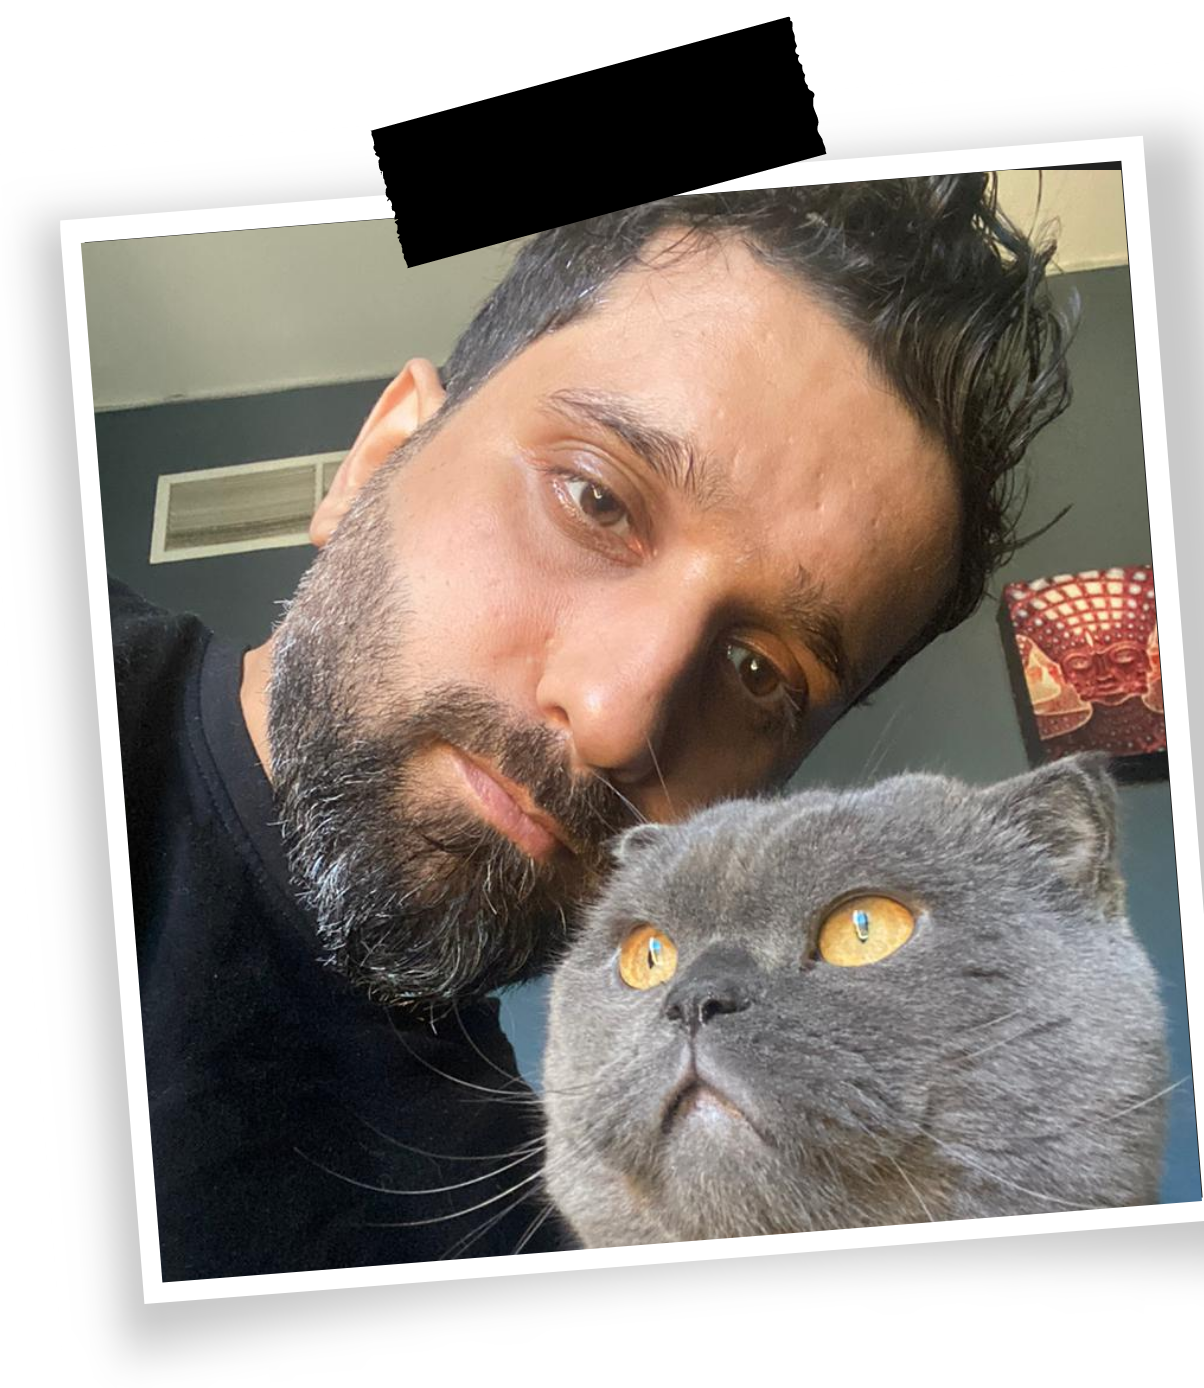
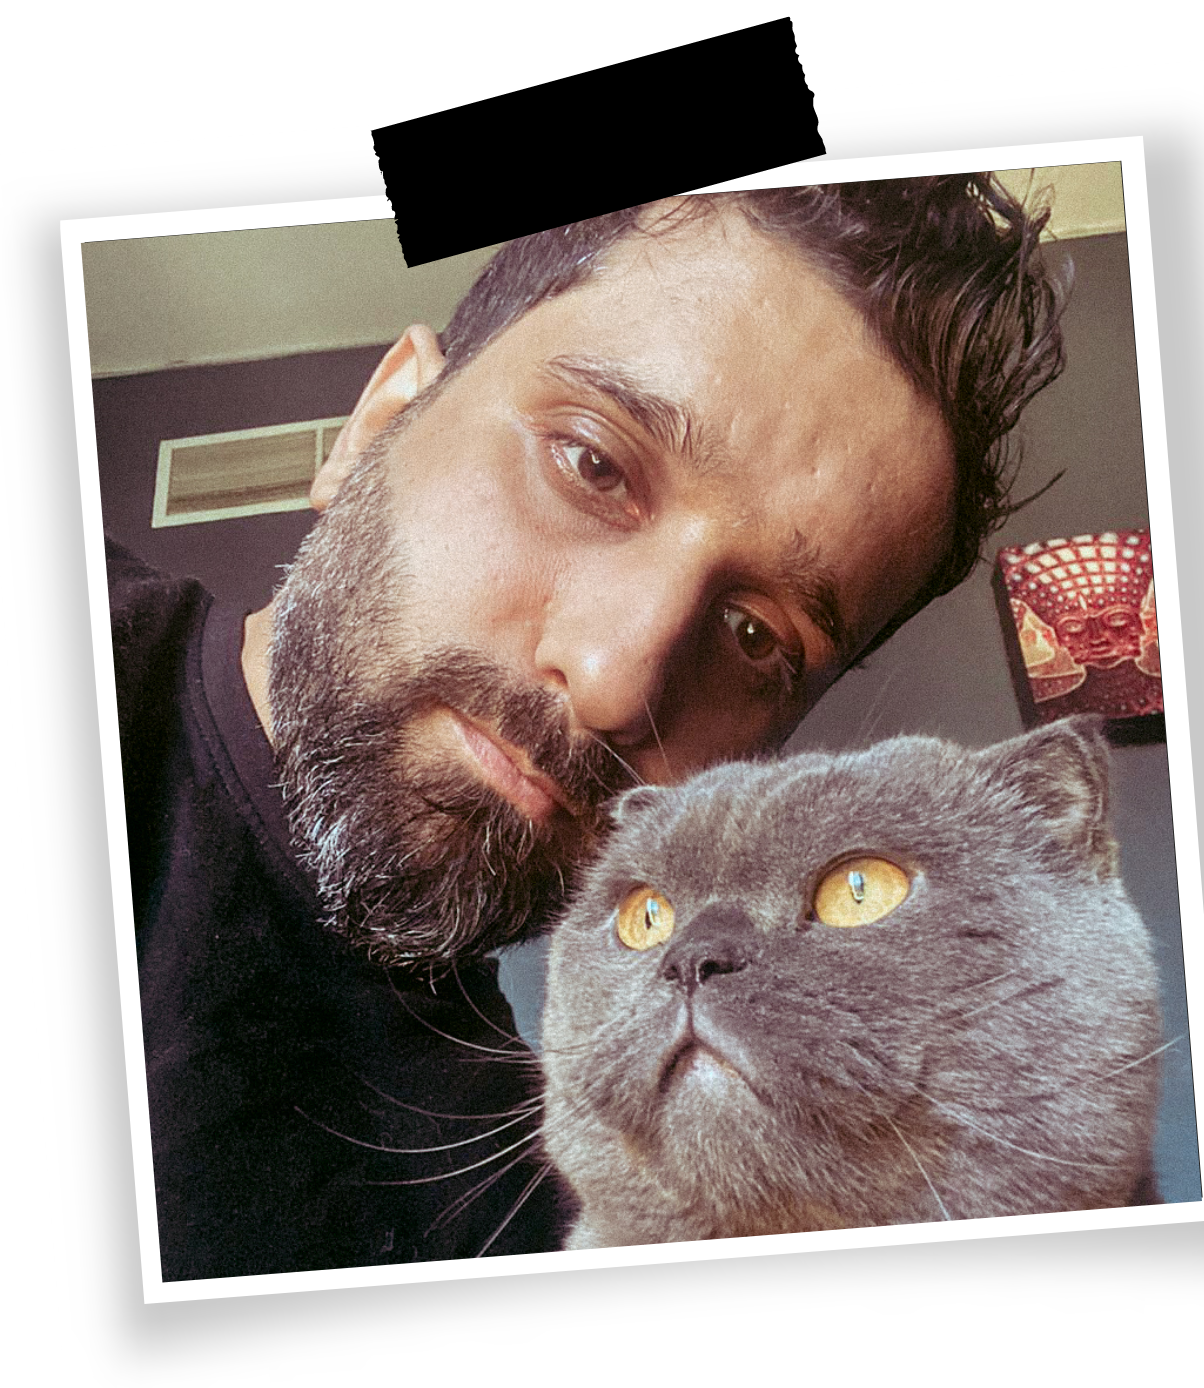
Web versiong of the website is complete

diff --git a/style.css b/style.css
@@ -26,7 +26,11 @@ h3 font size = 20px : 1.25rem
 body > div{
   width: 100vw;
   height: 100vh;
+  background-color: hsla(0, 0%, 100%, 0.81);
   background-image: url("./images/white-paper-texture.png");
+  overflow-x: hidden;
+  border-top: 2px solid black;
+  border-bottom: 8px solid black;
 }
 
 h1{
@@ -41,8 +45,14 @@ h2{
   mix-blend-mode: color-burn;
 }
 
+h3{
+  font-weight: normal;
+  padding: 0.1rem;
+  mix-blend-mode: color-burn;
+}
+
 p{
-  font-size: 18px;
+  font-size: 16px;
   mix-blend-mode: color-burn;
 }
 
@@ -52,7 +62,7 @@ p{
   width: 8%;
   position: absolute;
   top: 1vh;
-  left: 20px
+  left: 10px
 }
 
 #home-pg{
@@ -64,7 +74,7 @@ p{
 
 .coffee-stain{
   position: relative;
-  right: 5%;
+  right: 0%;
 }
 
 .coffee-stain img{
@@ -78,6 +88,7 @@ p{
   justify-content: center;
   align-items: center;
   height: 100%;
+  mix-blend-mode: color-burn;
 }
 .intro-text div{
   display: flex;
@@ -102,7 +113,7 @@ p{
   flex-direction: column;
   justify-content: flex-end;
   align-items: end;
-  height: 100vh;
+  height: 100%;
   
 }
 
@@ -112,6 +123,7 @@ p{
 
 .polaroid img{
   width: 55vh;
+  mix-blend-mode:multiply;
 }
 
 /* Page 1 */
@@ -126,20 +138,22 @@ p{
 #story-pg1{
   padding: 2rem;
   padding-right: 0;
+  padding-bottom: 0;
+}
+
+#story-pg1{
+  height: 100%;
 }
 
 .pg1-content{
   display: flex;
   flex-direction: row;
-  justify-content: space-between;
-  align-items: flex-end;
-  width: 100%;
-  height: 100%;
+  height: auto;
+  overflow: hidden;
 }
 
 .script-pg1{
-  height: 100%;
-  width: 50%;
+  width: 60vw;
   justify-self: center;
 }
 
@@ -150,6 +164,125 @@ p{
 }
 
 .placeholder{
-  width: 90%;
+  width: 80%;
   mix-blend-mode: color-burn;
 }
+
+.man-and-the-mountain{
+  width: 40vw;
+  height: 100%;
+  position: relative;
+  align-self: flex-end;
+  top: 2rem;
+}
+
+.man-and-the-mountain video{
+  width: 100%;
+}
+
+.pg2-content{
+  display: flex;
+  justify-content: flex-start;
+  flex-direction: column;
+  align-items: flex-start;
+  width: 100%;
+  height: 100%;
+}
+
+.pg2-content .script{
+  padding-left: 2rem;
+  padding-top: 2rem ;
+  width: 50vw;
+  height: 20vh;
+  z-index: 2;
+  mix-blend-mode: color-burn;
+}
+
+.man-cooking-his-ideas{
+  height: 100vh;
+  width: 100vw;
+  position: absolute;
+  z-index: 0;
+  mix-blend-mode: color-burn;
+}
+
+.man-cooking-his-ideas img{
+  height: 100vh;
+  width: 100vw;
+}
+
+#contact-pg{
+  display: flex;
+  flex-direction: column;
+  align-items: center;
+  justify-content: flex-start;
+  padding-top: 1rem;
+  z-index: 3;
+  padding-left: 2rem;
+  padding-right: 2rem;
+}
+
+.contact-section{
+  display: flex;
+  justify-content: space-between;
+  align-items: center;
+  height: 90vh;
+  width: auto;
+}
+
+.terminator-cat{
+  align-self: center;
+  justify-self: center;
+  padding-bottom: 8%;
+}
+
+.terminator-cat p{
+  font-size: 20px;
+  padding-block: 1rem;
+}
+
+.terminator-cat img{
+  width: 70%;
+  mix-blend-mode: color-burn;
+}
+
+.contact-details{
+  text-align: center;
+  width: 85vw;
+  display: flex;
+  flex-direction: column;
+  align-items: center;
+  justify-content: center;
+  row-gap: 3rem;
+  height: 80vh;
+}
+
+.contact-me{
+  justify-self: start;
+}
+
+.contact-me h3{
+  font-size: 20px;
+  padding-block: 0.3rem;
+}
+
+.contact-me p{
+  font-size: 20px;
+  padding-block: 0.3rem;
+}
+
+.icon{
+  width: auto;
+  mix-blend-mode: color-burn;
+}
+
+.icons{
+  display: flex;
+  flex-direction: column;
+  align-items: flex-end;
+  row-gap: 1rem;
+  width: auto;
+  mix-blend-mode: color-burn;
+}
+
+

diff --git a/index.html b/index.html
@@ -34,7 +34,7 @@
     <!-- <img  class="staple-pin1" src="./images/Mask Group 6.png" alt="A stapler pin to staple the paper" srcset=""> -->
     <div class="pg1-content">
       <div class="script-pg1">
-        <div class="script">
+        <div class="script-1">
           <h3>EXT. MOUNTAIN TOP - DAY</h3>
           <p>A man (FARHAD) in his early 30s wearing high altitude hiking gear is stands atop of a mountain taking a long
             breath.</p>
@@ -57,7 +57,7 @@
         </div>
       </div>
       <div class="man-and-the-mountain">
-        <video width="600" height="100%" autoplay loop muted playsinline>
+        <video width="auto" height="auto" autoplay loop muted playsinline>
           <source 
     src="./images/the-man-webm.webm" 
     type="video/webm">
@@ -67,33 +67,44 @@
        
   </div>
   <div id="story-pg2">
-    <div class="staple-pin"></div>
-    <div class="script">
-      <h3>Ext. Mountain Top - Day</h3>
-      <p>
-        A man (FARHAD) in his early 30s wearing high altitude hiking gear is stands atop of a mountain taking a long
-        breath.<br> The view is like something out of a photograph, serene and
-        peaceful. His stance is of one mesmerised and in awe of what he sees. The mountains; ancient beyond time, disappear into the clouds around him.
-      </p>
-    </div>
-    <div class="man-cooking-his-ideas">
-      <video></video>
+    <!-- <div class="staple-pin"></div> -->
+    <div class="pg2-content">
+      <div class="script">
+        <h3>CUT TO:</h3>
+        <h3>INT. KITCHEN - EVENING</h3>
+        <p>
+          Farhad cooks in the kitchen, a neatly cut pile of vegetables rests on the counter. The smoke rises as he stirs the pan attentively.
+        </p>
+      </div>
+      <div class="man-cooking-his-ideas">
+        <!-- <video>
+        </video> -->
+        <img src="./images/man-cooking-his-idea.png" alt="man-cooking-his-ideas" srcset="">
+      </div>
     </div>
   </div>
   <div id="contact-pg">
-    <div class="staple-pin"></div>
     <h2>The End</h2>
-    <div>
-      <div class="icon"></div>
-      <div class="terminator-cat">
-        <video src=""></video>
-        <p>“Hasta la’vista, baby!”</p>
-        <div class="contact-details">
-          <h3>Contact me on:</h3>
-          <p>Email: farhad.jamali92@gmail.com<br>
-            Phone/Whatsapp: +971 55 321 2109
-          </p>
+    <div class="contact-section">
+      <div class="icon">
+        <img src="./images/cv-icon.png" alt="Download my cv from here" width="53px">
+      </div>
+      <div class="contact-details">
+          <div class="terminator-cat">
+            <img src="./images/cool-cat.png" alt="this is a cool cat shooting you" srcset="">
+            <!-- <video src=""></video> -->
+            <p>“Hasta la’vista, baby!”</p>
+          </div>
+          <div class="contact-me">
+            <h3>Contact me on:</h3>
+            <p>Email: farhad.jamali92@gmail.com</p>
+            <p>Phone/Whatsapp: +971 55 321 2109</p>
+          </div>
         </div>
+      <div class="icons">
+        <img src="./images/instagram-icon.png" alt="Download my cv from here" width="53px">
+        <img src="./images/youtube-icon.png" alt="Download my cv from here" width="53px">
+        <img src="./images/vimeo-icon.png" alt="Download my cv from here" width="53px">
       </div>
     </div>
   </div>
